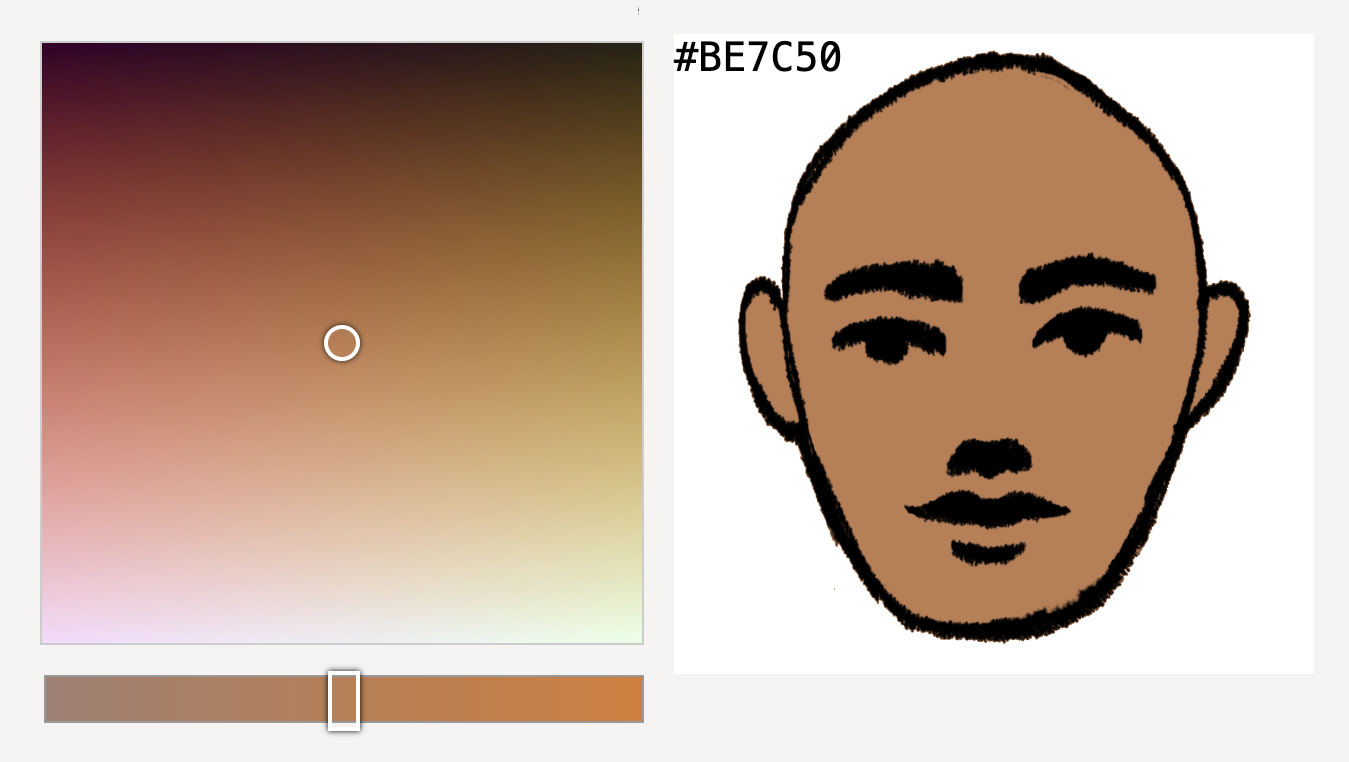
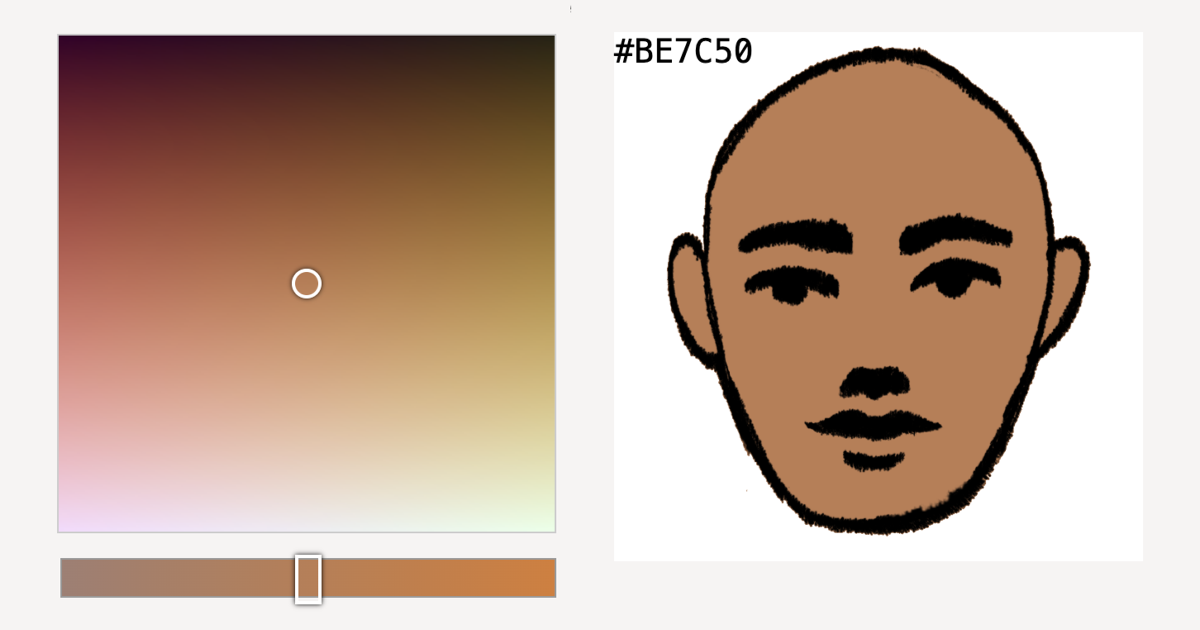
update meta tags

diff --git a/docs/index.html b/docs/index.html
@@ -3,14 +3,16 @@
 
 <head>
     <meta charset="utf-8">
-    <title>What Colors Are We? Constructing A Good Enough Color Space For Skin Tones</title>
+    <title>What Colors Are We? Constructing A Color Space For Skin Tones</title>
 
-    <meta property="og:title" content="What Colors Are We? Constructing A Good Enough Color Space For Skin Tones">
-    <meta property="og:description" content="Simple equations to inclusively select skin tones">
+    <meta property="og:title" content="What Colors Are We? Constructing A Color Space For Skin Tones">
+    <meta name=”description” content="Simple equations and a color picker to inclusively select simplified skin tones in a custom color space for digital art or game development.">
+    <meta property="og:description" content="Simple equations and a color picker to inclusively select simplified skin tones in a custom color space for digital art or game development.">
     <meta property="og:image" content="https://toneyalexander.github.io/inclusive-color-space/img/preview.png">
     <meta property="og:image:alt" content="Preview of an inclusive skin tone selector">
-    <meta property="og:image:width" content="1349">
-    <meta property="og:image:height" content="762">
+    <meta property="og:image:width" content="1200">
+    <meta property="og:image:height" content="630">
+    <meta property="og:site_name" content="toneyalexander.github.io">
     <meta property="og:url" content="https://toneyalexander.github.io/inclusive-color-space/">
     <meta property="og:type" content="article">
     <meta property="og:locale" content="en_US">
